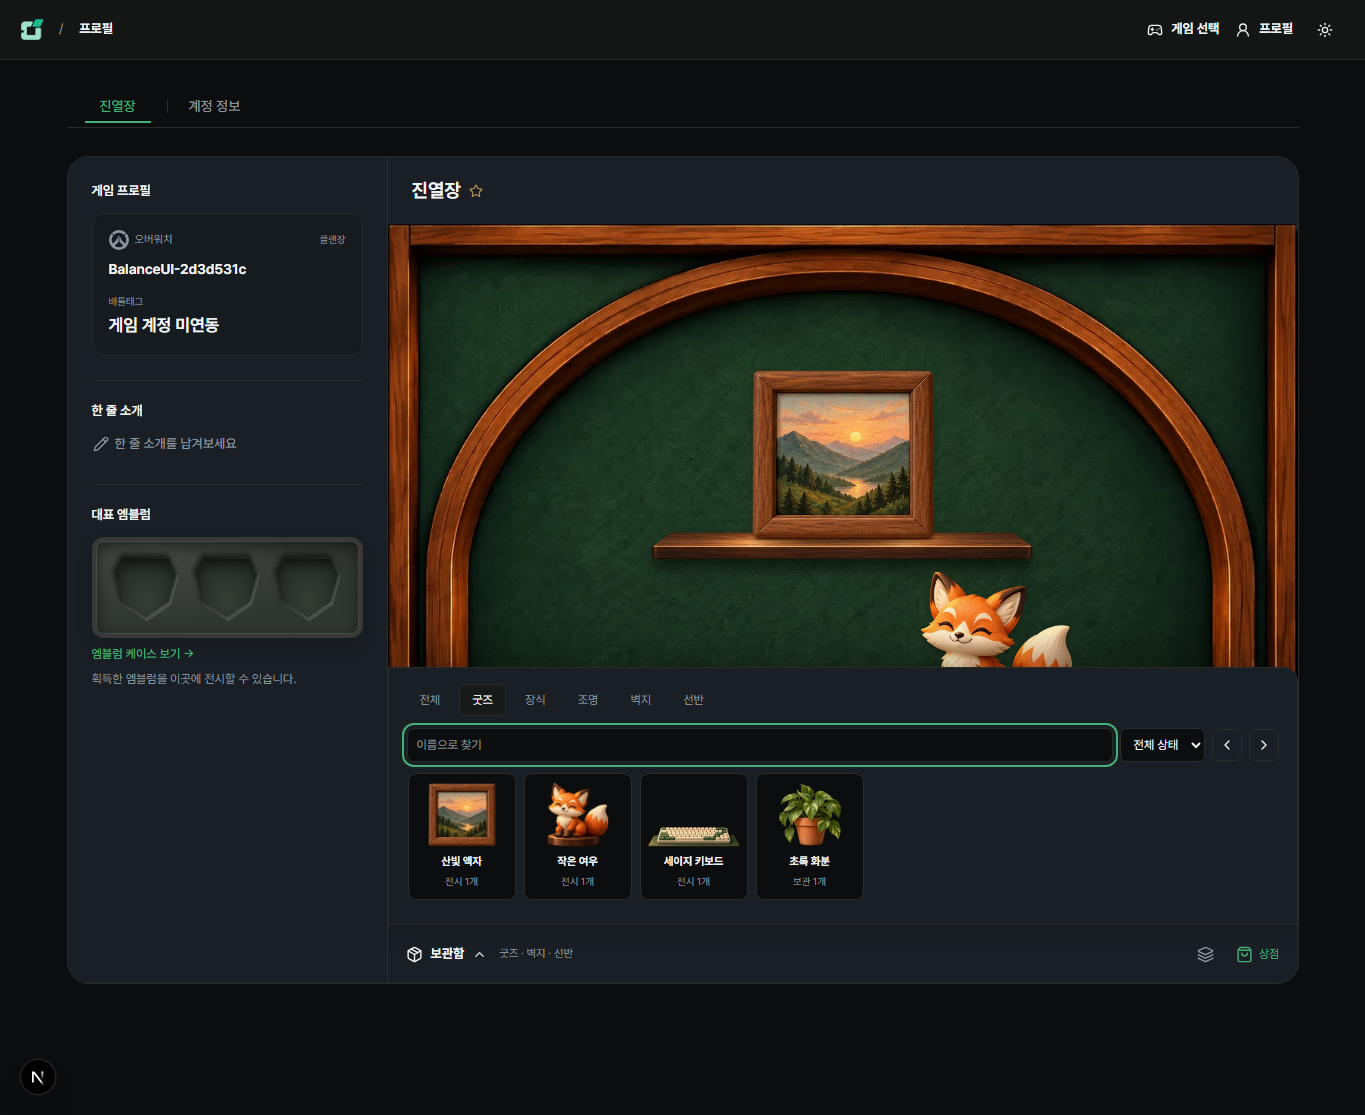
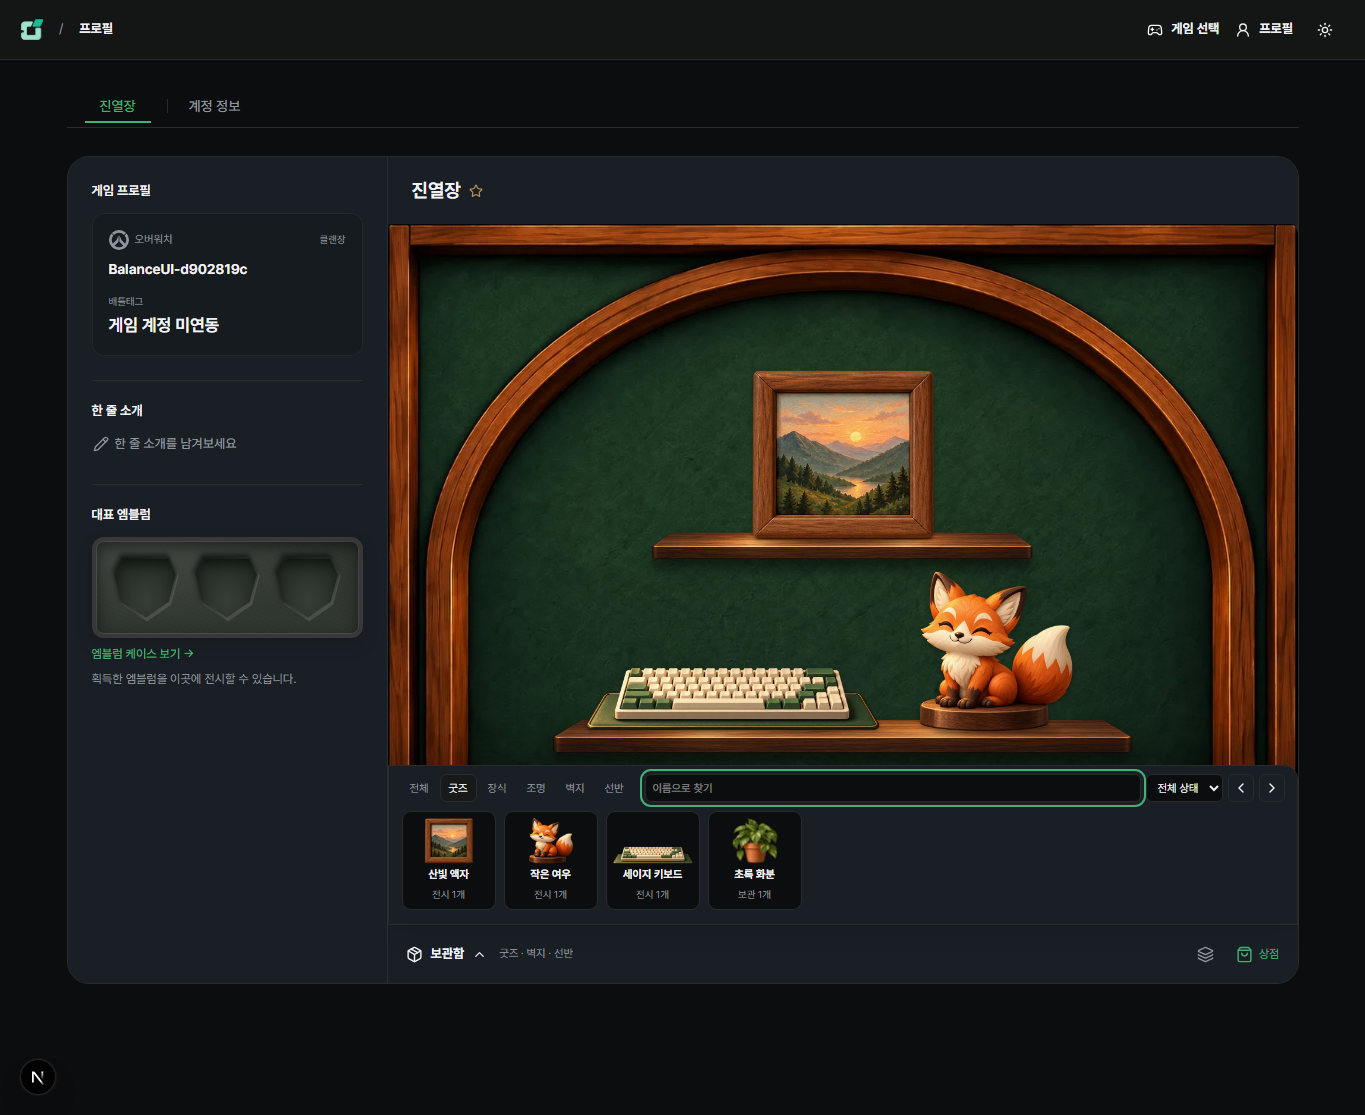
fix(profile): compact inventory and preserve wood colors

Changed region(s): [[0.2769, 0.5794, 0.9538, 0.8233], [0.1231, 0.2135, 0.1846, 0.2439]]

diff --git a/src/components/profile/showcase.module.css b/src/components/profile/showcase.module.css
@@ -3,8 +3,9 @@
 .backboard{position:absolute;inset:0;background:url('/images/showcase/cabinet-unlit-v3.webp') center/100% 100% no-repeat;pointer-events:none}
 .focus .backboard{background-image:url('/images/showcase/cabinet-focus-bare-v4.webp')}
 .forest{background-color:#17251b}
-.cream .backboard{filter:saturate(.55) brightness(1.5)}
-.midnight .backboard{filter:hue-rotate(115deg) saturate(.55) brightness(.7)}
+.wallpaper{position:absolute;inset:0;width:100%;height:100%;pointer-events:none}
+.cream .wallpaper,.cream.wallpaperSwatch .backboard{filter:saturate(.55) brightness(1.5)}
+.midnight .wallpaper,.midnight.wallpaperSwatch .backboard{filter:hue-rotate(115deg) saturate(.55) brightness(.7)}
 .ambient{position:absolute;inset:0;background:linear-gradient(0deg,#080b071c,transparent 55%);pointer-events:none}
 .shelf{position:absolute;height:4%;transform:translateY(-26%);filter:drop-shadow(0 1.2cqw .7cqw #05080399);z-index:2;pointer-events:none}
 .shelf svg{display:block;width:100%;height:100%;overflow:hidden}
@@ -29,7 +30,7 @@ button.item{cursor:grab;touch-action:none}
 .actions{display:flex;flex-wrap:wrap;gap:8px}
 .error{padding:12px 20px;font-size:12px;line-height:1.6;color:var(--destructive);display:flex;gap:8px;align-items:center;flex-wrap:wrap}
 .unavailable{min-height:420px;display:grid;place-content:center;gap:16px;text-align:center}
-.drawer{position:relative;z-index:10;container-type:inline-size;min-width:0;border-top:1px solid var(--border);background:var(--profile-panel-background,var(--card));color:var(--foreground)}
+.drawer{touch-action:manipulation;position:relative;z-index:10;container-type:inline-size;min-width:0;border-top:1px solid var(--border);background:var(--profile-panel-background,var(--card));color:var(--foreground)}
 .drawerTarget{box-shadow:inset 0 0 0 2px #bf9c5c;background:color-mix(in srgb,var(--card) 95%,#bf9c5c)}
 .inventoryHeading{display:flex;align-items:center;gap:12px;min-height:58px;padding:10px 18px}
 .inventoryHeading a{display:flex;align-items:center;gap:6px;font-size:12px;color:var(--primary);min-height:36px}
@@ -38,20 +39,23 @@ button.item{cursor:grab;touch-action:none}
 .manageButton{display:grid;place-content:center;width:36px;height:36px;border-radius:7px;color:var(--muted-foreground)}
 .manageButton:hover{background:var(--muted);color:var(--foreground)}
 .drawerContent{position:absolute;bottom:100%;left:0;right:0;z-index:40;max-height:0;overflow:hidden;opacity:0;pointer-events:none;background:var(--profile-panel-background,var(--card));border-radius:0 14px 0 0;box-shadow:0 -10px 36px #0004}
-.drawer[data-open=true] .drawerContent{max-height:min(430px,70dvh,calc(100cqw / 1.3 + 40px));overflow-y:auto;opacity:1;pointer-events:auto;padding:14px 18px 16px;border:1px solid var(--border)}
-.filters{display:flex;gap:6px;flex-wrap:wrap;margin:2px 0 12px}.filters button{font-size:12px;min-height:32px;padding:5px 12px;border:1px solid transparent;border-radius:7px;color:var(--muted-foreground)}
+.drawer[data-open=true] .drawerContent{max-height:min(260px,48dvh,calc(100cqw / 1.3));overflow-y:auto;opacity:1;pointer-events:auto;padding:8px 12px 10px;border:1px solid var(--border)}
+.inventoryToolbar{display:flex;align-items:center;gap:12px;margin-bottom:8px;min-width:0}
+.filters{display:flex;gap:2px;flex-shrink:0;white-space:nowrap}.filters button{font-size:11px;min-height:28px;padding:3px 8px;border:1px solid transparent;border-radius:7px;color:var(--muted-foreground)}
 .filters button[aria-pressed=true]{border-color:var(--border);background:var(--muted);color:var(--foreground)}
-.inventorySearch{display:flex;gap:7px;margin-bottom:10px;align-items:center}.inventorySearch input,.inventorySearch select{min-height:34px;border:1px solid var(--border);border-radius:7px;background:var(--background);color:var(--foreground);padding:6px 9px;font-size:12px;min-width:0}.inventorySearch input{flex:1;width:0}.inventorySearch select{max-width:110px}.inventorySearch button{flex-shrink:0;display:grid;place-content:center;width:30px;height:32px;border:1px solid var(--border);border-radius:6px}
-.inventory{display:flex;gap:8px;overflow-x:auto;padding:1px 1px 8px;min-height:128px;overscroll-behavior-x:contain}
-.inventory>button{flex:0 0 108px;min-width:0;padding:9px 7px;border:1px solid var(--border);border-radius:9px;text-align:center;background:var(--background);touch-action:none;user-select:none;cursor:grab}
+.inventorySearch{display:flex;gap:5px;align-items:center;flex:1;min-width:0}.inventorySearch input,.inventorySearch select{min-height:28px;border:1px solid var(--border);border-radius:6px;background:var(--background);color:var(--foreground);padding:3px 7px;font-size:11px;min-width:0}.inventorySearch input{flex:1;width:0}.inventorySearch select{max-width:110px}.inventorySearch button{flex-shrink:0;display:grid;place-content:center;width:26px;height:28px;border:1px solid var(--border);border-radius:6px}
+.inventory{display:flex;gap:8px;overflow-x:auto;padding:1px 1px 4px;min-height:101px;overscroll-behavior-x:contain}
+.inventory>button{flex:0 0 94px;min-width:0;padding:6px;border:1px solid var(--border);border-radius:9px;text-align:center;background:var(--background);touch-action:none;user-select:none;cursor:grab}
 .inventory>button:disabled{opacity:.5;cursor:default}.inventory>button[aria-pressed=true]{border-color:var(--primary)}
-.inventory .art{height:64px;margin-bottom:7px}.inventory strong{font-size:11px;display:block;margin-top:5px}.inventory small{font-size:10px;color:var(--muted-foreground)}
-.inventoryEmpty{min-height:128px;display:grid;place-content:center;flex:1;font-size:12px;color:var(--muted-foreground)}
-.itemTools{display:flex;align-items:center;gap:7px;flex-wrap:wrap;margin-top:8px;padding-top:10px;border-top:1px solid var(--border)}.itemTools strong{font-size:12px;margin-right:auto}.itemTools button{min-height:32px;border:1px solid var(--border);border-radius:6px;padding:5px 8px;font-size:11px}.itemTools button:disabled{opacity:.4}.itemTools input{min-width:0;width:150px;min-height:32px;border:1px solid var(--border);border-radius:6px;padding:5px 8px;font-size:12px}
+.inventory .art{height:46px;margin-bottom:3px}.inventory strong{font-size:11px;display:block;margin-top:3px}.inventory small{font-size:10px;color:var(--muted-foreground)}
+.inventoryEmpty{min-height:101px;display:grid;place-content:center;flex:1;font-size:12px;color:var(--muted-foreground)}
+.itemTools{display:flex;align-items:center;gap:5px;flex-wrap:wrap;margin-top:5px;padding-top:6px;border-top:1px solid var(--border)}.itemTools strong{font-size:12px;margin-right:auto}.itemTools button{min-height:28px;border:1px solid var(--border);border-radius:6px;padding:3px 7px;font-size:11px}.itemTools button:disabled{opacity:.4}.itemTools input{min-width:0;width:150px;min-height:32px;border:1px solid var(--border);border-radius:6px;padding:5px 8px;font-size:12px}
 .dragGhost{position:fixed;z-index:100;pointer-events:none;width:80px;height:80px;transform:translate(-50%,-50%);opacity:.85;filter:drop-shadow(0 4px 6px #0006)}
 .dropPreview{pointer-events:none;opacity:.7;outline:1px dashed #efd79e;outline-offset:5px}
 .templatePreview{position:relative;isolation:isolate;aspect-ratio:1.3;max-width:180px;margin:auto;overflow:hidden;border-radius:8px;container-type:inline-size}
-.inventory .templatePreview{height:64px;width:84px;margin-bottom:7px}
-.wallpaperSwatch{display:block;position:relative;height:64px;width:84px;margin:0 auto 7px;border-radius:7px;overflow:hidden}.wallpaperSwatch .backboard{background-size:230%;background-position:center}
+.inventory .templatePreview{height:46px;width:60px;margin-bottom:3px}
+.wallpaperSwatch{display:block;position:relative;height:46px;width:60px;margin:0 auto 3px;border-radius:7px;overflow:hidden}.wallpaperSwatch .backboard{background-size:230%;background-position:center}
 .storeArt{width:150px;height:130px;margin:auto}.storeGrid{display:grid;grid-template-columns:repeat(3,minmax(0,1fr));gap:16px}.storeItem{border:1px solid var(--border);border-radius:12px;padding:20px;background:var(--card)}.storeItem h3{font-weight:600;margin:12px 0 6px}.storeItem p{font-size:12px;color:var(--muted-foreground);margin-bottom:14px}
-@media(max-width:600px){.heading{padding:16px}.inventoryHeading{padding:8px 12px;gap:7px}.drawerHint{font-size:10px}.inventoryHeading a span{display:none}.drawer[data-open=true] .drawerContent{padding:10px 12px 12px}.filters{gap:2px}.filters button{padding:5px 9px}.inventory>button{flex-basis:94px}.inventory .art{height:58px}.inventorySearch{gap:5px}.inventorySearch select{max-width:95px}.storeGrid{grid-template-columns:repeat(2,minmax(0,1fr))}.storeItem{padding:12px}.storeArt{width:100%;max-width:120px}}
+@media(max-width:600px){.heading{padding:16px}.inventoryHeading{padding:8px 12px;gap:7px}.drawerHint{font-size:10px}.inventoryHeading a span{display:none}.drawer[data-open=true] .drawerContent{padding:8px 10px}.inventory>button{flex-basis:88px}.inventorySearch{gap:5px}.inventorySearch select{max-width:95px}.storeGrid{grid-template-columns:repeat(2,minmax(0,1fr))}.storeItem{padding:12px}.storeArt{width:100%;max-width:120px}}
+
+@container (max-width:680px){.inventoryToolbar{flex-wrap:wrap;gap:5px}.filters{width:100%;justify-content:space-between}.filters button{padding:3px 7px}.inventorySearch{flex-basis:100%}}

diff --git a/src/components/profile/showcase-editor.tsx b/src/components/profile/showcase-editor.tsx
@@ -105,7 +105,7 @@ export function ShowcaseEditor({ initial, userId, readOnly }: { initial: Showcas
   useEffect(()=>{
     const cancel=()=>{if(inventoryDrag.current?.moved)suppressClick.current=true;inventoryDrag.current=null;setDragPoint(null);setPreview(null);setHovered(false);setFocused(false);setTouchOpen(false);};
     const key=(event:KeyboardEvent)=>{if(event.key==="Escape")cancel();};
-    const outside=(event:PointerEvent)=>{if(event.pointerType!=="mouse" && event.target instanceof Node && !drawerRef.current?.contains(event.target))setTouchOpen(false);};
+    const outside=(event:PointerEvent)=>{if(event.target instanceof Node && !drawerRef.current?.contains(event.target))setTouchOpen(false);};
     window.addEventListener("keydown",key);window.addEventListener("blur",cancel);window.document.addEventListener("pointerdown",outside);
     return ()=>{window.removeEventListener("keydown",key);window.removeEventListener("blur",cancel);window.document.removeEventListener("pointerdown",outside);};
   },[]);
@@ -142,19 +142,21 @@ export function ShowcaseEditor({ initial, userId, readOnly }: { initial: Showcas
       select={readOnly?undefined:setSelected} move={readOnly?undefined:(id,x,shelf)=>updateItem(id,{x,shelf})} onDrag={trackDrag}
       storeAt={(id,x,y)=>{if(inDrawer(x,y)){storeItem(id);return true;}return false;}}/>
     {!readOnly && <div ref={drawerRef} className={`${styles.drawer} ${dragPoint?.overDrawer?styles.drawerTarget:""}`} data-testid="showcase-drawer" data-open={drawerOpen} aria-label="보관함"
-      onPointerEnter={event=>{if(event.pointerType==="mouse"){setHovered(true);setTouchOpen(false);}}}
-      onPointerLeave={event=>{if(event.pointerType==="mouse"){setHovered(false);setFocused(false);setTouchOpen(false);}}}
+      onPointerEnter={event=>{if(event.pointerType==="mouse")setHovered(true);}}
+      onPointerLeave={event=>{if(event.pointerType==="mouse"){setHovered(false);setFocused(false);}}}
       onFocusCapture={event=>{if(event.target.matches(":focus-visible"))setFocused(true);}}
       onBlurCapture={event=>{if(!event.currentTarget.contains(event.relatedTarget))setFocused(false);}}>
       <div className={styles.inventoryHeading}>
-        <button type="button" className={styles.drawerToggle} aria-expanded={drawerOpen} aria-controls="showcase-inventory-panel" onClick={event=>{if(pointerType.current!=="mouse" || event.detail===0){setTouchOpen(open=>!open);setFocused(false);setHovered(false);}else setHovered(true);}}><Package size={17}/><strong>보관함</strong><ChevronDown size={15} style={{transform:drawerOpen?"rotate(180deg)":undefined}}/></button>
+        <button type="button" className={styles.drawerToggle} aria-expanded={drawerOpen} aria-controls="showcase-inventory-panel" onPointerUp={event=>{if(event.pointerType!=="mouse"){setTouchOpen(open=>!open);setFocused(false);setHovered(false);}}} onClick={event=>{if(event.detail===0){setTouchOpen(open=>!open);setFocused(false);setHovered(false);}else if(pointerType.current==="mouse"){setTouchOpen(false);setHovered(true);}}}><Package size={17}/><strong>보관함</strong><ChevronDown size={15} style={{transform:drawerOpen?"rotate(180deg)":undefined}}/></button>
         <span className={styles.drawerHint}>{dragPoint && !dragPoint.fromInventory?"여기에 놓아 보관하기":"굿즈 · 벽지 · 선반"}</span>
         <button className={styles.manageButton} type="button" aria-label="진열장 관리" onClick={()=>setManager(true)}><Layers size={17}/></button>
         <Link href="/store#showcase" aria-label="선반·굿즈 상점"><ShoppingBag size={17}/><span>상점</span></Link>
       </div>
       <div ref={drawerPanelRef} id="showcase-inventory-panel" className={styles.drawerContent} aria-hidden={!drawerOpen} inert={!drawerOpen && !dragPoint?.fromInventory}>
+        <div className={styles.inventoryToolbar}>
         <div className={styles.filters} role="group" aria-label="보관함 분류">{FILTERS.map(f=><button key={f.id} type="button" aria-pressed={category===f.id} onClick={()=>setCategory(f.id)}>{f.name}</button>)}</div>
         <div className={styles.inventorySearch}><input aria-label="보관함 검색" placeholder="이름으로 찾기" value={query} onChange={event=>setQuery(event.target.value)}/><select aria-label="보관함 배치 상태" value={availability} onChange={event=>setAvailability(event.target.value)}><option value="all">전체 상태</option><option value="stored">보관 중</option><option value="placed">전시 중</option></select><button type="button" aria-label="이전 보관함 항목" onClick={()=>inventoryRef.current?.scrollBy({left:-280,behavior:"smooth"})}><ChevronLeft size={16}/></button><button type="button" aria-label="다음 보관함 항목" onClick={()=>inventoryRef.current?.scrollBy({left:280,behavior:"smooth"})}><ChevronRight size={16}/></button></div>
+        </div>
         <div ref={inventoryRef} className={styles.inventory}>
           {products.map(product=>{
             const spare=(initial.owned[product.id]??0)-usedQuantity(document,product.id);

diff --git a/src/components/profile/showcase-wallpaper.tsx b/src/components/profile/showcase-wallpaper.tsx
@@ -1,0 +1,22 @@
+import { useId } from "react";
+import type { ShowcaseCabinet } from "@/lib/showcase/domain";
+import styles from "./showcase.module.css";
+
+/** The source art combines green plaster and warm wood. Tint only the plaster. */
+export function ShowcaseWallpaper({ template, background }: Pick<ShowcaseCabinet, "template" | "background">) {
+  const id = useId().replace(/:/g, "");
+  if (background === "forest") return null;
+  const image = template === "focus" ? "/images/showcase/cabinet-focus-bare-v4.webp" : "/images/showcase/cabinet-unlit-v3.webp";
+  return <svg className={styles.wallpaper} viewBox="0 0 1200 923" preserveAspectRatio="none" aria-hidden="true">
+    <defs>
+      <filter id={`${id}-plaster`} colorInterpolationFilters="sRGB" x="0" y="0" width="100%" height="100%">
+        {/* Green minus red isolates both wall areas around the arch, excluding warm wood. */}
+        <feColorMatrix type="matrix" values="-32 32 0 0 -.04  -32 32 0 0 -.04  -32 32 0 0 -.04  0 0 0 1 0" />
+      </filter>
+      <mask id={`${id}-wall`} maskUnits="userSpaceOnUse" x="0" y="0" width="1200" height="923" style={{ maskType: "luminance" }}>
+        <image href={image} width="1200" height="923" preserveAspectRatio="none" filter={`url(#${id}-plaster)`} />
+      </mask>
+    </defs>
+    <image href={image} width="1200" height="923" preserveAspectRatio="none" mask={`url(#${id}-wall)`} />
+  </svg>;
+}

diff --git a/src/components/profile/showcase-scene.tsx b/src/components/profile/showcase-scene.tsx
@@ -3,6 +3,7 @@ import { useEffect, useRef, useState, type RefObject } from "react";
 import { itemPosition, placementRail, shelfGeometry, type ShowcaseCabinet, type ShowcaseItem, type ShowcaseProduct } from "@/lib/showcase/domain";
 import { showcaseArtRatio, showcaseDisplayWidth } from "@/lib/showcase/art";
 import { ShowcaseArt } from "./showcase-art";
+import { ShowcaseWallpaper } from "./showcase-wallpaper";
 import styles from "./showcase.module.css";
 
 export function contains(bounds: DOMRect | undefined, x: number, y: number) {
@@ -48,6 +49,7 @@ export function ShowcaseScene({ cabinet, catalog, selected, select, move, sceneR
   const items = preview ? [...cabinet.items, preview] : cabinet.items;
   return <div ref={scene} className={`${styles.scene} ${styles[cabinet.background]} ${cabinet.template === "focus" ? styles.focus : ""}`} data-testid="showcase-scene" aria-label="취향 전시">
     <div className={styles.backboard} aria-hidden="true" />
+    <ShowcaseWallpaper template={cabinet.template} background={cabinet.background} />
     <div className={styles.ambient} aria-hidden="true" />
     {items.map(original => {
       const product = catalog.find(p => p.id === original.catalogId);

diff --git a/docs/design/profile-showcase-2026-10-25/hover-inventory.md b/docs/design/profile-showcase-2026-10-25/hover-inventory.md
@@ -23,6 +23,13 @@
 - 집중 화면: 상단/하단 이음매 색상·라운드, 열림 전후 문서 높이, 위로 열림, 필터, 양방향 드래그, 놓기 전 미저장, 취소, 스타일 재조회, 장식/명패/조명, 네트워크 실패 복구, 여러 구성/대표/수량, 터치, 좁은 폭, 방문자, 저장 충돌/계정 변경.
 - 관련 회귀: 계정 네임카드·프로필 구성·상점 왕복. 관련 E2E 3개 통과. 집중 E2E 1개, 자동 저장 단위 3개, 변경 파일 ESLint·타입 검사 통과. QA 임시 계정만 사용하고 시드를 실행하지 않았다.
 
+## 밀도·벽지 색상 보정
+
+- 보관함 본문은 데스크톱에서 약 258px → 159px로 줄였다. 필터·검색·배치 상태를 한 줄에 놓고 좁은 영역에서만 두 줄로 배치한다. 상품 이미지는 64px → 46px이며 선택 굿즈 조절을 포함해도 최대 260px 안에서 스크롤한다.
+- 기존 벽지 필터가 목재를 포함한 합성 뒤판 전체에 적용되어 밤하늘 벽지에서 프레임까지 녹색으로 바뀌던 오류를 수정했다. 원본 목재 위에 녹색 벽면만 분리한 색상 레이어를 적용한다. 중앙 강조형의 아치 안팎 벽면도 동일하다.
+- 기존 두 원본의 녹색 벽/갈색 목재 차이를 SVG 마스크로 구분한다. 원본 이미지·새 다운로드·상품/배치 데이터는 변경하지 않는다. 다른 원본 재질을 추가할 때는 해당 마스크와 목재 색 보존 검증을 함께 확인한다.
+- 기본형·중앙 강조형에서 크림/밤하늘 변경 전후 목재 프레임·아치·선반의 실제 화면 픽셀이 같고 벽면 픽셀만 바뀌는지 검증한다. 보관함 높이·터치/드래그·자동 저장·필터·방문자 집중 회귀도 포함한다.
+
 ## 실제 화면
 
 ![닫힌 보관함·패널 이음매](verification/showcase-hover-closed.png)
@@ -32,3 +39,7 @@
 ![보유 선반 선택](verification/showcase-hover-shelves.png)
 
 ![모바일 보관함](verification/showcase-hover-mobile.png)
+
+![밤하늘 벽지·기본형 목재 보존](verification/showcase-wallpaper-classic-midnight.png)
+
+![밤하늘 벽지·중앙 강조형 목재 보존](verification/showcase-wallpaper-focus-midnight.png)

diff --git a/docs/TODO_LOG.md b/docs/TODO_LOG.md
@@ -1,5 +1,9 @@
 # 구현 진행도 — 작업 세션 로그
 
+### 2026-10-25 — 보관함 밀도·벽지 색상 보정
+
+- 필터/검색을 한 줄로 묶고 보관함 높이를 약 40% 줄였다. 벽지 변경이 목재까지 물들이던 전체 이미지 필터를 벽면 마스크로 한정했다. 기본형/중앙 강조형의 목재 색 보존을 실제 화면 픽셀로 검증한다. [결정·실제 화면](design/profile-showcase-2026-10-25/hover-inventory.md#밀도벽지-색상-보정).
+
 ### 2026-10-25 — 위로 열리는 보관함·자동 저장
 
 - 상시 설정/저장 UI를 제거하고 보관함에 분류·검색·벽지·선반 선택을 통합했다. 놓기/반환 즉시 저장하며 연속 조작·실패 초안·충돌을 보호한다. 보관함은 진열장 위로 열리고 좌측 소개와 색상·이음매를 통일했다. [동작·검증](design/profile-showcase-2026-10-25/hover-inventory.md).
